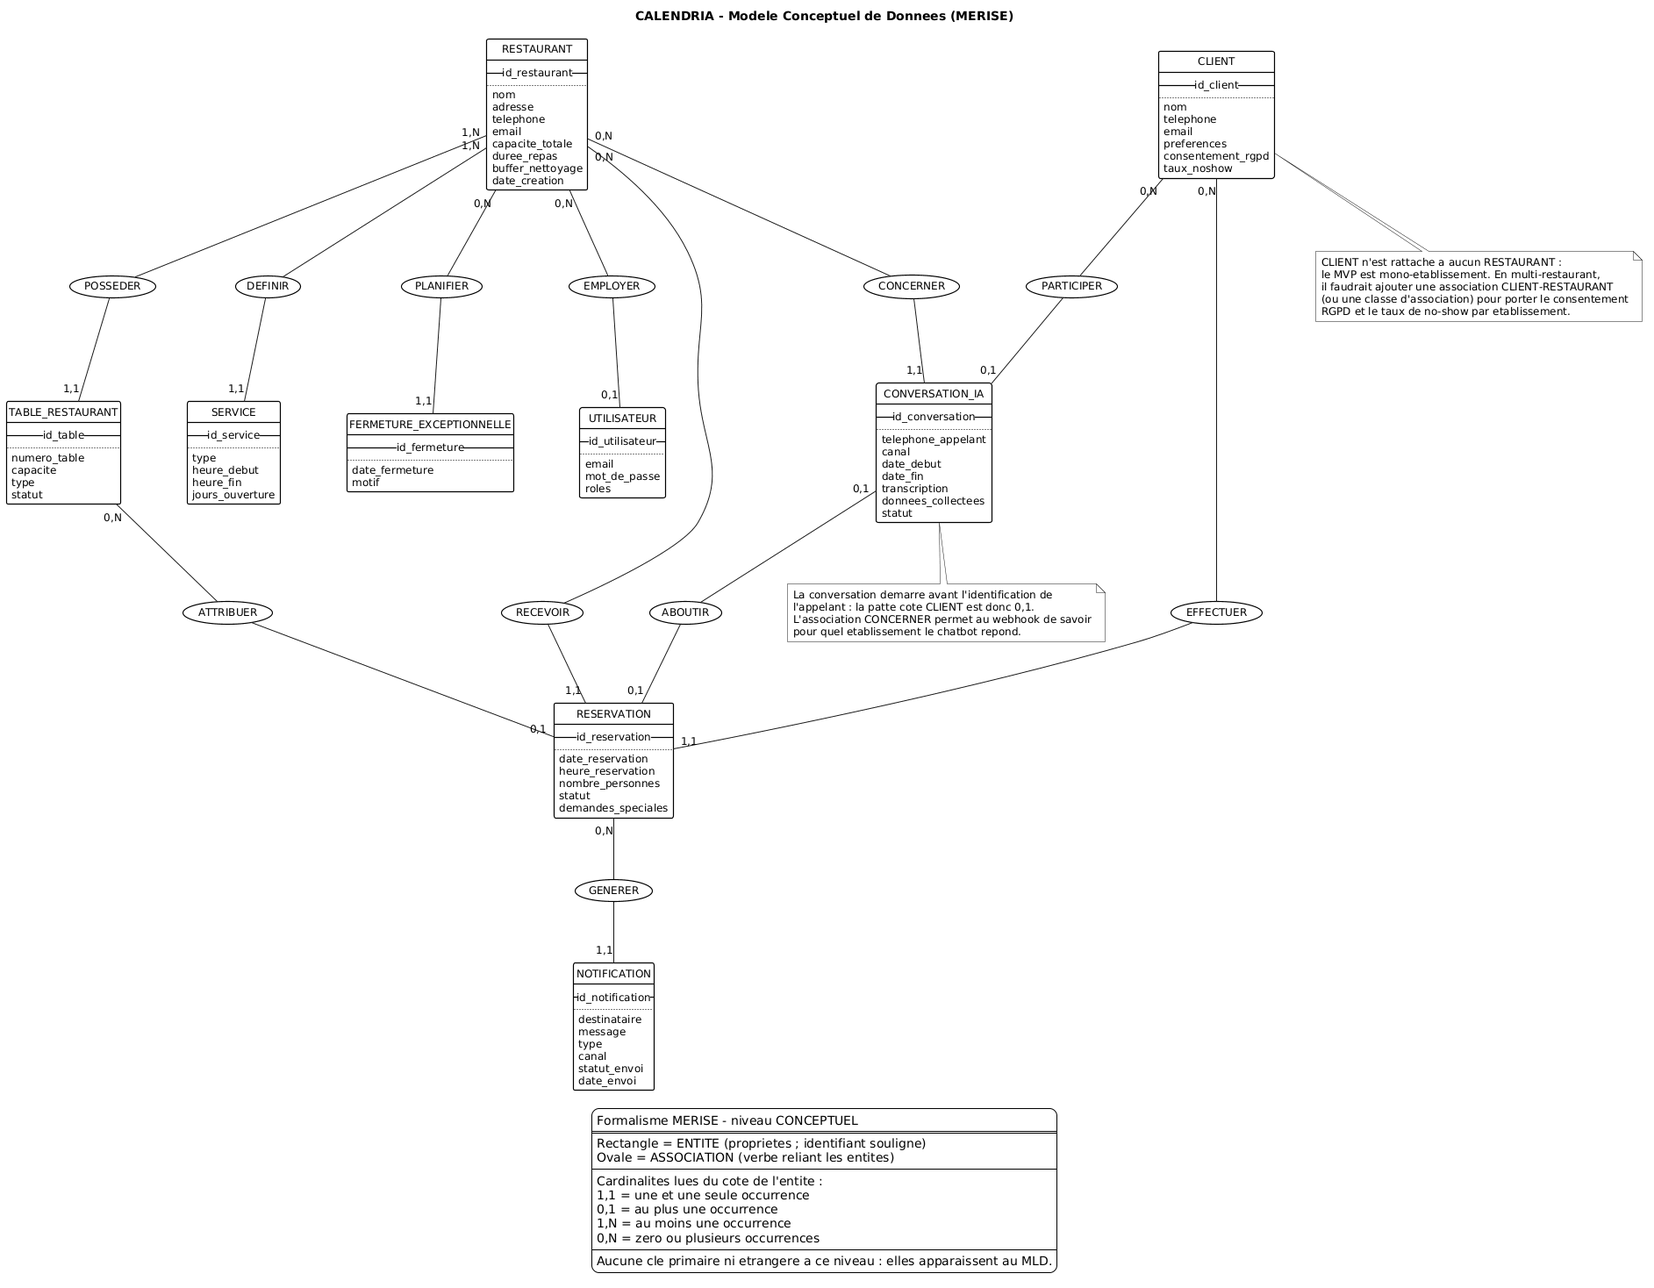
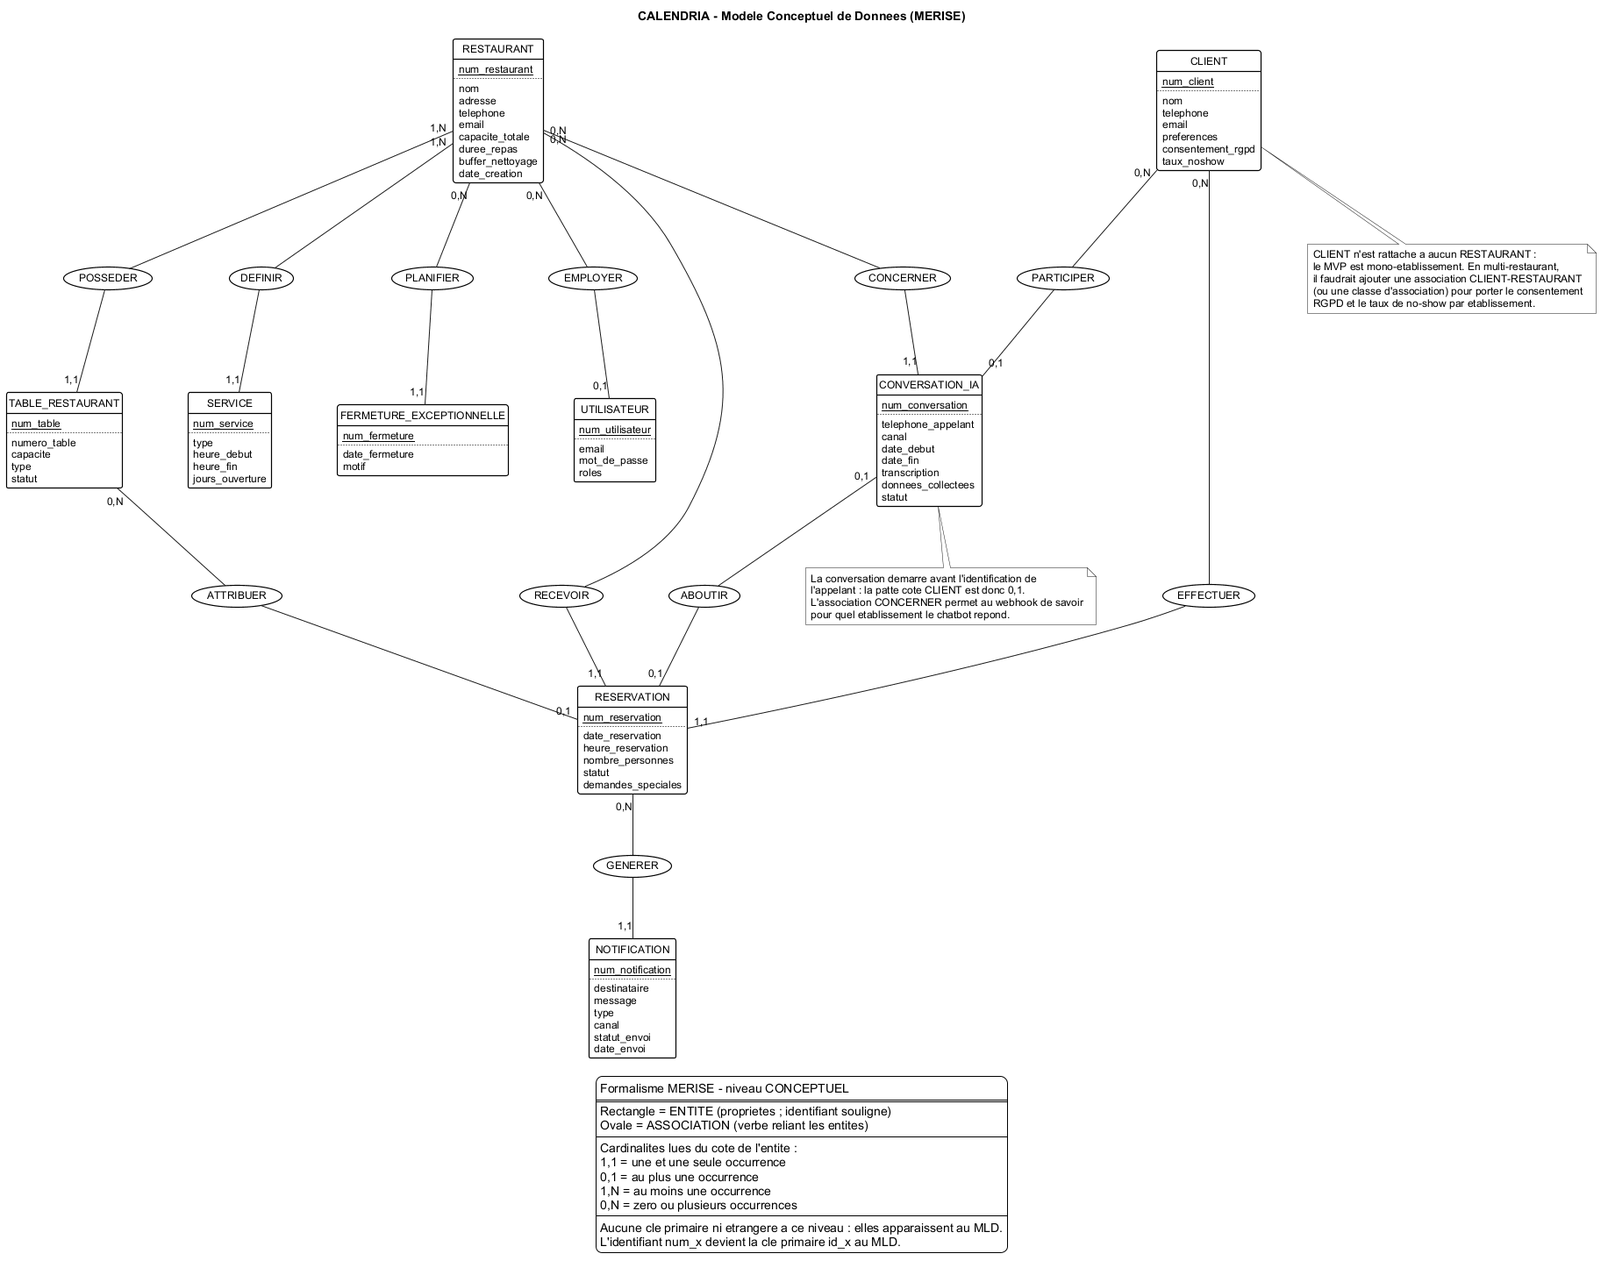
docs: restore detailed slides, use business identifiers in MCD and drop multiplicities from MLD

diff --git a/documentation/soutenance_CALENDRIA_v2.html b/documentation/soutenance_CALENDRIA_v2.html
@@ -314,21 +314,21 @@ pre .k{color:#7FD1F5}.c{color:#7c98a8}.s{color:#9BE7A8}.n{color:#F0B37E}
 </section>
 
 <!-- ═══════════════ 2. SOMMAIRE ═══════════════ -->
-<section class="slide airy" data-title="Sommaire">
+<section class="slide" data-title="Sommaire">
   <div class="kicker">Déroulé de la présentation</div>
   <h2>Sommaire</h2>
   <div class="rule"></div>
   <div class="body">
     <div class="cols c3">
-      <div class="card"><span class="ico">🎯</span><h4>1. Le projet</h4></div>
-      <div class="card"><span class="ico">🗂</span><h4>2. Gestion de projet</h4></div>
-      <div class="card"><span class="ico">🎨</span><h4>3. Conception UI/UX</h4></div>
-      <div class="card"><span class="ico">🗄</span><h4>4. Modélisation des données</h4></div>
-      <div class="card"><span class="ico">🏛</span><h4>5. Architecture &amp; UML</h4></div>
-      <div class="card"><span class="ico">🔐</span><h4>6. Sécurité, tests, déploiement</h4></div>
-      <div class="card"><span class="ico">🔭</span><h4>7. Veille</h4></div>
-      <div class="card green"><span class="ico">✅</span><h4>8. Bilan</h4></div>
-      <div class="card red"><span class="ico">🚀</span><h4>9. Démonstration live</h4></div>
+      <div class="card"><span class="ico">🎯</span><h4>1. Le projet</h4><p>Présentation, contexte métier, problématique, cahier des charges et objectifs SMART.</p></div>
+      <div class="card"><span class="ico">🗂</span><h4>2. Gestion de projet</h4><p>Méthode agile adaptée au travail seul, trunk-based development, planning des 6 jalons.</p></div>
+      <div class="card"><span class="ico">🎨</span><h4>3. Conception UI/UX</h4><p>Sitemap, wireframes, charte graphique, maquettes et accessibilité.</p></div>
+      <div class="card"><span class="ico">🗄</span><h4>4. Modélisation données</h4><p>Démarche MERISE : MCD, MLD et MPD.</p></div>
+      <div class="card"><span class="ico">🏛</span><h4>5. Architecture &amp; UML</h4><p>Cas d'utilisation, séquences, classes, architecture N-tiers et 4 couches.</p></div>
+      <div class="card"><span class="ico">🔐</span><h4>6. Sécurité &amp; tests</h4><p>OWASP Top 10, RGPD, politique de tests PHPUnit, pipeline CI/CD.</p></div>
+      <div class="card"><span class="ico">🔭</span><h4>7. Veille</h4><p>Veille technologique et veille sécurité menées pendant 6 mois.</p></div>
+      <div class="card green"><span class="ico">✅</span><h4>8. Bilan</h4><p>Difficultés rencontrées, taux de couverture fonctionnelle, perspectives.</p></div>
+      <div class="card red"><span class="ico">🚀</span><h4>9. Démonstration</h4><p>Application en production : dashboard, plan de salle, chatbot IA, widget en iframe et Telegram.</p></div>
     </div>
   </div>
   <div class="chrome"><span>CALENDRIA — Soutenance CDA</span><span class="pg"></span></div>
@@ -367,19 +367,32 @@ pre .k{color:#7FD1F5}.c{color:#7c98a8}.s{color:#9BE7A8}.n{color:#F0B37E}
 </section>
 
 <!-- ═══════════════ 5. CONTEXTE / COMMANDITAIRE ═══════════════ -->
-<section class="slide airy" data-title="Contexte & commanditaire">
+<section class="slide" data-title="Contexte & commanditaire">
   <div class="kicker">Section II — Contexte métier</div>
-  <h2>Un restaurateur qui passe 2 h par jour au téléphone</h2>
+  <h2>Le commanditaire et son besoin</h2>
   <div class="rule"></div>
   <div class="body">
     <div class="cols c21">
       <div>
-        <div class="quote">« Je passe <strong>2 heures par jour</strong> à gérer les appels de réservation, dont une partie arrive hors service. Je veux automatiser sans perdre la main sur mon planning. »</div>
-        <p class="note" style="margin-top:10px">M. Gilles Morel, « Le Gourmet Parisien » — commanditaire fictif, profil-type du client visé.</p>
+        <table>
+          <tr><th colspan="2">Fiche commanditaire (fictif — profil-type du client visé)</th></tr>
+          <tr><td><b>Commanditaire</b></td><td>M. Gilles MOREL, gérant</td></tr>
+          <tr><td><b>Établissement</b></td><td>« Le Gourmet Parisien » — gastronomique</td></tr>
+          <tr><td><b>Capacité</b></td><td>10 tables · 40 couverts</td></tr>
+          <tr><td><b>Adresse</b></td><td>15 rue de la Paix, 75001 Paris</td></tr>
+          <tr><td><b>Rôle projet</b></td><td>Validation fonctionnelle, retours maquettes, recette finale</td></tr>
+        </table>
+        <div class="quote" style="margin-top:14px">
+          « Je passe <strong>2 heures par jour</strong> à gérer les appels de réservation, dont une partie arrive hors service. Je veux automatiser sans perdre la main sur mon planning. »
+        </div>
       </div>
-      <div class="kpis" style="grid-template-columns:1fr">
-        <div class="kpi accent"><div class="v">2 h / jour</div><div class="l">au téléphone</div></div>
-        <div class="kpi"><div class="v">24/7</div><div class="l">objectif : réserver à toute heure</div></div>
+      <div>
+        <h3>Secteur visé</h3>
+        <p>Restauration — restaurants indépendants, brasseries, bistrots et établissements gastronomiques.</p>
+        <div class="kpis" style="grid-template-columns:1fr 1fr;margin-top:14px">
+          <div class="kpi accent"><div class="v">2h</div><div class="l">par jour passées au téléphone</div></div>
+          <div class="kpi accent"><div class="v">40</div><div class="l">couverts à optimiser chaque service</div></div>
+        </div>
       </div>
     </div>
   </div>
@@ -387,7 +400,7 @@ pre .k{color:#7FD1F5}.c{color:#7c98a8}.s{color:#9BE7A8}.n{color:#F0B37E}
 </section>
 
 <!-- ═══════════════ 7. SOLUTION / PARCOURS ═══════════════ -->
-<section class="slide airy" data-title="La solution en 5 étapes">
+<section class="slide" data-title="La solution en 5 étapes">
   <div class="kicker">Section II — Fonctionnement global</div>
   <h2>Le parcours d'une réservation</h2>
   <div class="rule"></div>
@@ -399,7 +412,12 @@ pre .k{color:#7FD1F5}.c{color:#7c98a8}.s{color:#9BE7A8}.n{color:#F0B37E}
       <div class="box">4 · Validation<small>Auto ou alternatives</small></div><span class="arw">→</span>
       <div class="box">5 · Dashboard<small>Restaurateur</small></div>
     </div>
-    <div class="quote" style="margin-top:18px">3 canaux, <strong>une seule API</strong> et <strong>un seul algorithme</strong> de disponibilité : aucun code métier dupliqué.</div>
+    <div class="cols c3" style="margin-top:8px">
+      <div class="card"><h4>🌐 Widget Web</h4><p>Chatbot intégrable en iframe sur le site du restaurant — <code>/widget?restaurantId=X</code>.</p></div>
+      <div class="card"><h4>📲 Bot Telegram</h4><p>Webhook <code>/api/chatbot/telegram</code>, gestion de session, confirmation immédiate.</p></div>
+      <div class="card"><h4>📞 Agent vocal IA</h4><p>Retell AI appelle <code>/api/chatbot/call</code> et lit les alternatives horaires à voix haute.</p></div>
+    </div>
+    <p class="note">Les 3 canaux partagent la <strong>même API REST</strong>, la <strong>même logique conversationnelle</strong> et le <strong>même algorithme de disponibilité</strong> — pas de duplication de code métier.</p>
   </div>
   <div class="chrome"><span>II — Présentation du projet</span><span class="pg"></span></div>
 </section>
@@ -445,16 +463,37 @@ pre .k{color:#7FD1F5}.c{color:#7c98a8}.s{color:#9BE7A8}.n{color:#F0B37E}
 </section>
 
 <!-- ═══════════════ 13. SCRUM SOLO ═══════════════ -->
-<section class="slide airy" data-title="Méthodologie agile">
+<section class="slide" data-title="Méthodologie agile">
   <div class="kicker">Section IV — Méthodologie</div>
-  <h2>Scrum, adapté au travail seul</h2>
+  <h2>Une méthode agile adaptée au travail seul</h2>
   <div class="rule"></div>
   <div class="body">
-    <div class="cols c2">
-      <div class="card green"><h4>Gardé</h4><p><b>1 jalon = 1 sprint</b> d'un mois · backlog <b>MoSCoW</b> · revue avec le référent · rétrospective écrite</p></div>
-      <div class="card orange"><h4>Abandonné</h4><p>Rôles Product Owner et Scrum Master, mêlée quotidienne : des rituels d'équipe, sans destinataire en solo</p></div>
+    <div class="cols c21">
+      <div>
+        <h3>Ce que j'ai gardé de Scrum</h3>
+        <table class="t-sm">
+          <tr><th>Pratique</th><th>Comment je l'ai appliquée</th></tr>
+          <tr><td><b>Sprint</b></td><td><b>1 mois = 1 jalon</b> — 6 sprints de janvier à juin</td></tr>
+          <tr><td><b>Backlog priorisé</b></td><td>Liste de fonctionnalités classées en <b>MoSCoW</b>, figée au Jalon 1 et révisée à chaque jalon</td></tr>
+          <tr><td><b>Incrément livrable</b></td><td>Chaque jalon produit un livrable démontrable, pas un document isolé</td></tr>
+          <tr><td><b>Revue de sprint</b></td><td>Présentation au référent à la fin de chaque jalon</td></tr>
+          <tr><td><b>Rétrospective</b></td><td>Bilan écrit en fin de jalon — c'est ce qui a déclenché le passage de WhatsApp à Telegram</td></tr>
+        </table>
+      </div>
+      <div>
+        <ul>
+          <li><strong>Le périmètre a dû bouger</strong> : WhatsApp Business exigeait 4 à 6 semaines de vérification. En étant agile, j'ai basculé sur Telegram au sprint suivant.</li>
+          <li><strong>Les jalons imposés sont déjà des sprints</strong> : un livrable démontrable chaque mois.</li>
+        </ul>
+        <div class="card orange" style="margin-top:12px">
+          <h4>Le backlog MoSCoW</h4>
+          <p><b>M</b>ust (indispensable, sinon pas de produit) : réserver via le chatbot · dashboard du jour · configuration tables &amp; horaires · confirmation immédiate.<br>
+          <b>S</b>hould (important, si le temps le permet) : multi-canal<br>
+          <b>C</b>ould (confort) : mode sombre.<br>
+          <b>W</b>on't (explicitement hors périmètre) : paiement, commande, multi-langues, mobile natif.</p>
+        </div>
+      </div>
     </div>
-    <div class="quote">L'agilité en pratique : WhatsApp Business exigeait 4 à 6 semaines de vérification → <strong>bascule sur Telegram au sprint suivant</strong>.</div>
   </div>
   <div class="chrome"><span>IV — Méthodologie et organisation</span><span class="pg"></span></div>
 </section>
@@ -531,17 +570,32 @@ pre .k{color:#7FD1F5}.c{color:#7c98a8}.s{color:#9BE7A8}.n{color:#F0B37E}
 </section>
 
 <!-- ═══════════════ 22. DÉMARCHE MERISE ═══════════════ -->
-<section class="slide airy" data-title="Démarche MERISE">
+<section class="slide" data-title="Démarche MERISE">
   <div class="kicker">Section VI — Méthode</div>
-  <h2>MERISE : du besoin à la base, en 3 niveaux</h2>
+  <h2>Une démarche MERISE en 3 niveaux</h2>
   <div class="rule"></div>
   <div class="body">
-    <div class="flow">
-      <div class="box">MCD · conceptuel<small>le besoin métier — sans clé</small></div><span class="arw">→</span>
-      <div class="box">MLD · logique<small>les tables et leurs clés</small></div><span class="arw">→</span>
-      <div class="box">MPD · physique<small>le SQL de PostgreSQL 15</small></div>
+    <div class="cols c3">
+      <div class="card"><span class="ico">🧠</span><h4>MCD — Conceptuel</h4><p>Entités, propriétés, associations en <strong>ovales</strong> et cardinalités. <strong>Ni table, ni clé.</strong></p></div>
+      <div class="card"><span class="ico">🔗</span><h4>MLD — Logique</h4><p>C'est <strong>ici seulement</strong> qu'apparaissent tables, clés primaires et clés étrangères.</p></div>
+      <div class="card"><span class="ico">🗄</span><h4>MPD — Physique</h4><p>Types SQL PostgreSQL 15, index et contraintes d'unicité, normalisation 3NF.</p></div>
     </div>
-    <div class="quote"><strong>9 entités modélisées, 6 implémentées</strong> dans le MVP : fermetures, conversations IA et notifications restent la cible.</div>
+    <h3 style="margin-top:6px">9 entités modélisées — <span style="color:var(--secondary)">6 implémentées dans le MVP</span></h3>
+    <div class="cols c3">
+      <table class="t-sm"><tr><th>Entité</th><th>Rôle</th><th>MVP</th></tr>
+        <tr><td><b>RESTAURANT</b></td><td>Établissement racine</td><td>✅</td></tr>
+        <tr><td><b>UTILISATEUR</b></td><td>Compte dashboard (JWT)</td><td>✅</td></tr>
+        <tr><td><b>TABLE_RESTAURANT</b></td><td>Table physique</td><td>✅</td></tr></table>
+      <table class="t-sm"><tr><th>Entité</th><th>Rôle</th><th>MVP</th></tr>
+        <tr><td><b>SERVICE</b></td><td>Midi / soir + jours d'ouverture</td><td>✅</td></tr>
+        <tr><td><b>CLIENT</b></td><td>Personne qui réserve</td><td>✅</td></tr>
+        <tr><td><b>RESERVATION</b></td><td>Entité centrale</td><td>✅</td></tr></table>
+      <table class="t-sm"><tr><th>Entité</th><th>Rôle</th><th>MVP</th></tr>
+        <tr><td>FERMETURE_EXCEPT.</td><td>Dates de fermeture</td><td>❌</td></tr>
+        <tr><td>CONVERSATION_IA</td><td>Historique multi-canal</td><td>❌</td></tr>
+        <tr><td>NOTIFICATION</td><td>Confirmation / rappel</td><td>❌</td></tr></table>
+    </div>
+    <p class="note">Le MCD décrit la <strong>cible fonctionnelle</strong> ; le MVP en implémente 6 entités sur 9. Les sessions de dialogue vivent aujourd'hui dans le <strong>cache Symfony</strong> plutôt qu'en base — suffisant pour une conversation éphémère, à persister le jour où l'on voudra analyser les échanges. Choix structurants retenus : <code>jours_ouverture</code> en <b>JSON</b> (souplesse sans table de jonction), <code>consentement_rgpd</code> porté par CLIENT, <code>table_id</code> nullable sur RESERVATION (en attente d'attribution).</p>
   </div>
   <div class="chrome"><span>VI — Modélisation de la base de données</span><span class="pg"></span></div>
 </section>
@@ -570,7 +624,7 @@ pre .k{color:#7FD1F5}.c{color:#7c98a8}.s{color:#9BE7A8}.n{color:#F0B37E}
       <div class="fig"><img src="Jalon3/MLD_v2.png" alt="Modèle Logique de Données"></div>
       <div>
         <ul>
-          <li>La clé étrangère va du côté <b>« plusieurs »</b> (*)</li>
+          <li>La clé étrangère va du côté <b>« plusieurs »</b> de l'association</li>
           <li>Minimum à 0 → clé <b>optionnelle</b> : <code>id_table (NULL)</code></li>
           <li>Lien 1 pour 1 → clé <b>UNIQUE</b></li>
         </ul>
@@ -684,21 +738,33 @@ pre .k{color:#7FD1F5}.c{color:#7c98a8}.s{color:#9BE7A8}.n{color:#F0B37E}
 </section>
 
 <!-- ═══════════════ 32. 4 COUCHES + SOLID ═══════════════ -->
-<section class="slide airy" data-title="Architecture logique & SOLID">
+<section class="slide" data-title="Architecture logique & SOLID">
   <div class="kicker">Section VIII — Architecture logique</div>
-  <h2>4 couches, une seule responsabilité chacune</h2>
+  <h2>4 couches backend &amp; principes SOLID</h2>
   <div class="rule"></div>
   <div class="body">
     <div class="flow">
-      <div class="box">Controller<small>HTTP</small></div><span class="arw">→</span>
-      <div class="box">Service<small>Métier</small></div><span class="arw">→</span>
-      <div class="box">Repository<small>Requêtes</small></div><span class="arw">→</span>
-      <div class="box">Entity<small>Données</small></div>
+      <div class="box">Controller<small>Couche HTTP</small></div><span class="arw">→</span>
+      <div class="box">Service<small>Couche métier</small></div><span class="arw">→</span>
+      <div class="box">Repository<small>Persistance</small></div><span class="arw">→</span>
+      <div class="box">Entity<small>Modèle Doctrine</small></div>
     </div>
-    <div class="cols c3">
-      <div class="card"><h4>S — responsabilité unique</h4><p>Une couche, une raison de changer</p></div>
-      <div class="card"><h4>O — ouvert / fermé</h4><p>Telegram et le vocal ajoutés sans toucher au service</p></div>
-      <div class="card"><h4>D — inversion des dépendances</h4><p>Symfony injecte les services</p></div>
+    <div class="cols c2">
+      <div>
+        <h3>Responsabilités</h3>
+        <ul>
+          <li><strong>Controller</strong> : désérialise le JSON, délègue, renvoie un code HTTP typé (201, 400, 401…). La logique métier lourde vit dans les services.</li>
+          <li><strong>Service</strong> : <code>DisponibiliteService</code> et <code>ChatbotService</code> — indépendants du contexte HTTP, donc testables unitairement.</li>
+          <li><strong>Repository</strong> : toutes les requêtes DQL complexes, jamais dans le contrôleur.</li>
+          <li><strong>Entity</strong> : POPO Doctrine, propriétés et accesseurs.</li>
+        </ul>
+      </div>
+      <div>
+        <h3>Principes SOLID appliqués</h3>
+        <div class="card"><h4>SRP</h4><p>La séparation Controller / Service / Repository garantit qu'une classe n'a qu'une seule raison de changer.</p></div>
+        <div class="card" style="margin-top:8px"><h4>OCP</h4><p>Ajouter un canal (Telegram, agent vocal) n'a demandé <strong>aucune modification</strong> de <code>DisponibiliteService</code> : seul un nouveau point d'entrée a été ajouté dans le contrôleur, qui réutilise le même service.</p></div>
+        <div class="card" style="margin-top:8px"><h4>DIP</h4><p>Injection de dépendances Symfony : le conteneur fournit les services, par constructeur (services métier, <code>AuthController</code>) ou en paramètre d'action (<code>ChatbotController</code>, <code>ReservationController</code>, <code>RestaurantAdminController</code>) — jamais d'instanciation en dur.</p></div>
+      </div>
     </div>
   </div>
   <div class="chrome"><span>VIII — Architecture multi-couches</span><span class="pg"></span></div>
@@ -826,18 +892,20 @@ pre .k{color:#7FD1F5}.c{color:#7c98a8}.s{color:#9BE7A8}.n{color:#F0B37E}
 </section>
 
 <!-- ═══════════════ 43. DIFFICULTÉS ═══════════════ -->
-<section class="slide airy" data-title="Difficultés rencontrées">
+<section class="slide" data-title="Difficultés rencontrées">
   <div class="kicker">Section XIV — Retour d'expérience</div>
-  <h2>Des difficultés, chacune résolue et documentée</h2>
+  <h2>5 difficultés, 5 solutions documentées</h2>
   <div class="rule"></div>
   <div class="body">
-    <table>
-      <tr><th style="width:250px">Problème</th><th>Solution</th></tr>
-      <tr><td><b>CORS en production</b></td><td>Origine autorisée en regex, lue à l'exécution</td></tr>
-      <tr><td><b>502 sur Railway</b></td><td><code>entrypoint.sh</code> réécrit le port de nginx</td></tr>
-      <tr><td><b>Déconnexions au déploiement</b></td><td>Clés JWT régénérées au build : accepté pour le MVP, clés en secret à terme</td></tr>
+    <table class="t-sm">
+      <tr><th style="width:180px">Problème</th><th>Cause identifiée</th><th>Solution retenue</th></tr>
+      <tr><td><b>1. CORS en production</b></td><td>URL Railway auto-générée, non connue au build ; sous-domaine modifiable.</td><td>Variable <code>CORS_ALLOW_ORIGIN</code> en <b>regex</b>, lue à l'exécution par NelmioCors — configuration sans rebuild.</td></tr>
+      <tr><td><b>2. Déconnexions à chaque déploiement</b></td><td>Clés JWT RSA régénérées au build Docker ⇒ tokens existants invalidés.</td><td>Comportement documenté et accepté pour le MVP ; solution cible : clés en secret Railway montées au démarrage.</td></tr>
+      <tr><td><b>3. Container qui plante au boot</b></td><td><code>services.yaml</code> injectait <code>TELEGRAM_BOT_TOKEN</code> / <code>GEMINI_API_KEY</code> dans tous les services via <code>bind</code>.</td><td>Valeurs par défaut vides dans <code>parameters</code> : <code>env(TELEGRAM_BOT_TOKEN): ''</code>.</td></tr>
+      <tr><td><b>4. CI cassée : base <code>calendria_test_test</code></b></td><td>Symfony ajoute <code>_test</code> quand <code>APP_ENV=test</code>, en plus du suffixe déjà présent dans l'URL.</td><td><code>DATABASE_URL</code> pointe vers <code>calendria</code> sans suffixe — Symfony complète tout seul.</td></tr>
+      <tr><td><b>5. 502 Bad Gateway sur Railway</b></td><td>nginx écoutait un port codé en dur, Railway impose <code>$PORT</code> dynamique.</td><td><code>entrypoint.sh</code> réécrit la conf nginx via <code>sed</code> avant de lancer supervisord.</td></tr>
     </table>
-    <p class="note"><span class="ann-inline" data-goto="ann-res-difficultes">Les 5 difficultés ↗</span></p>
+    <p class="note">Chaque incident est traçable dans l'historique Git par son commit de correction — la démarche de diagnostic compte autant que le correctif.</p>
   </div>
   <div class="chrome"><span>XIV — Difficultés rencontrées</span><span class="pg"></span></div>
 </section>
